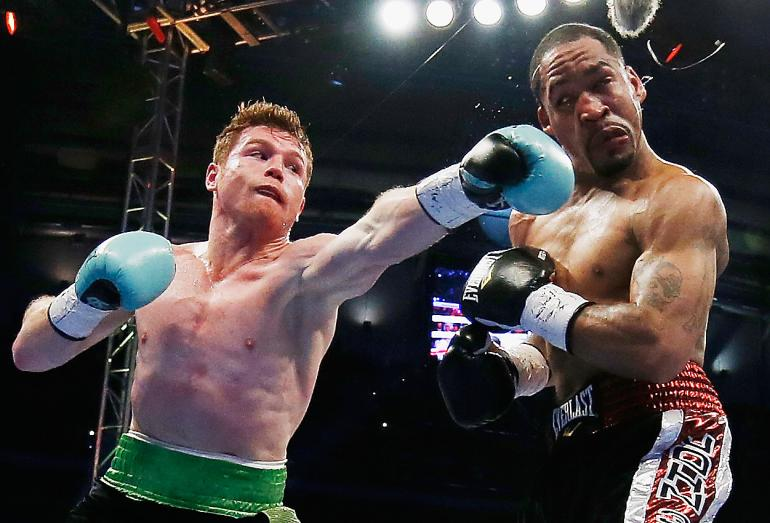
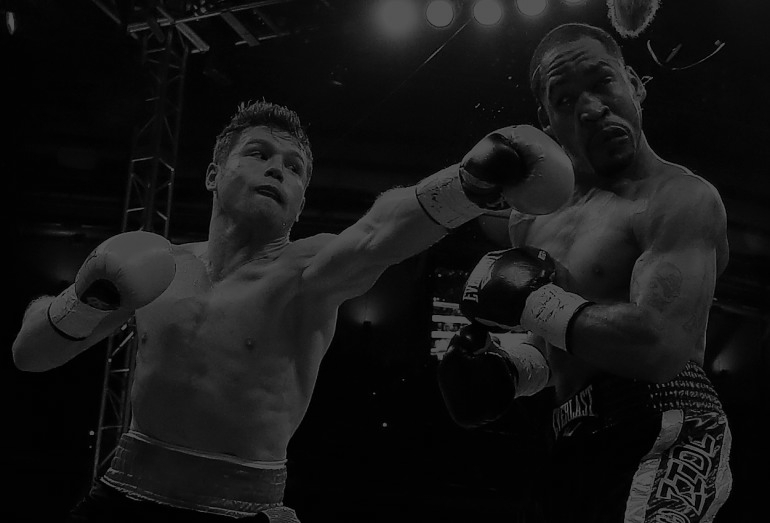
Pending changes

diff --git a/slides/yireo/react_to_ko.md b/slides/yireo/react_to_ko.md
@@ -76,7 +76,7 @@
 # Replacing the native minicart with a React component
 
 ---
-{state: overlay}
+{state: black}
 {background-image: mm18pl/knockout.jpg}
 # Summary of Knockout
 ~ Initial release in 2010
